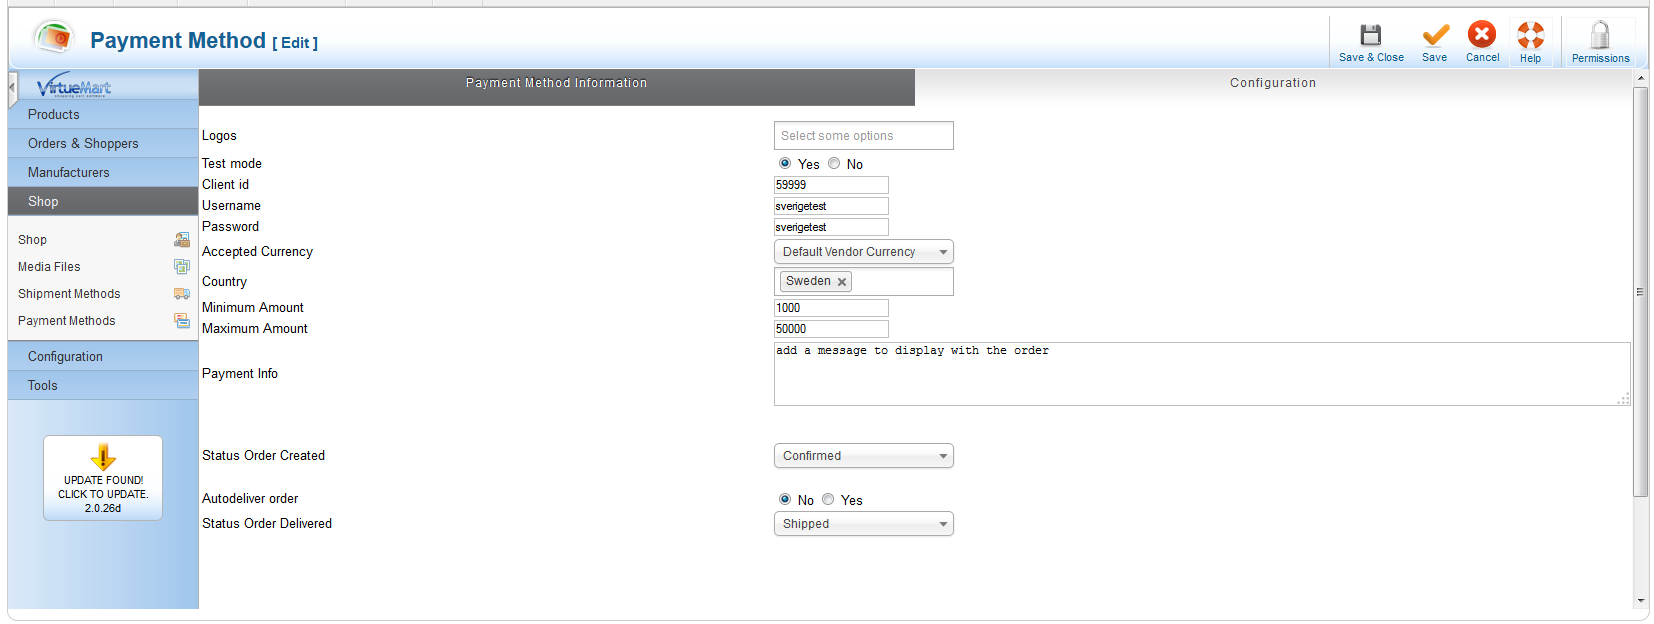
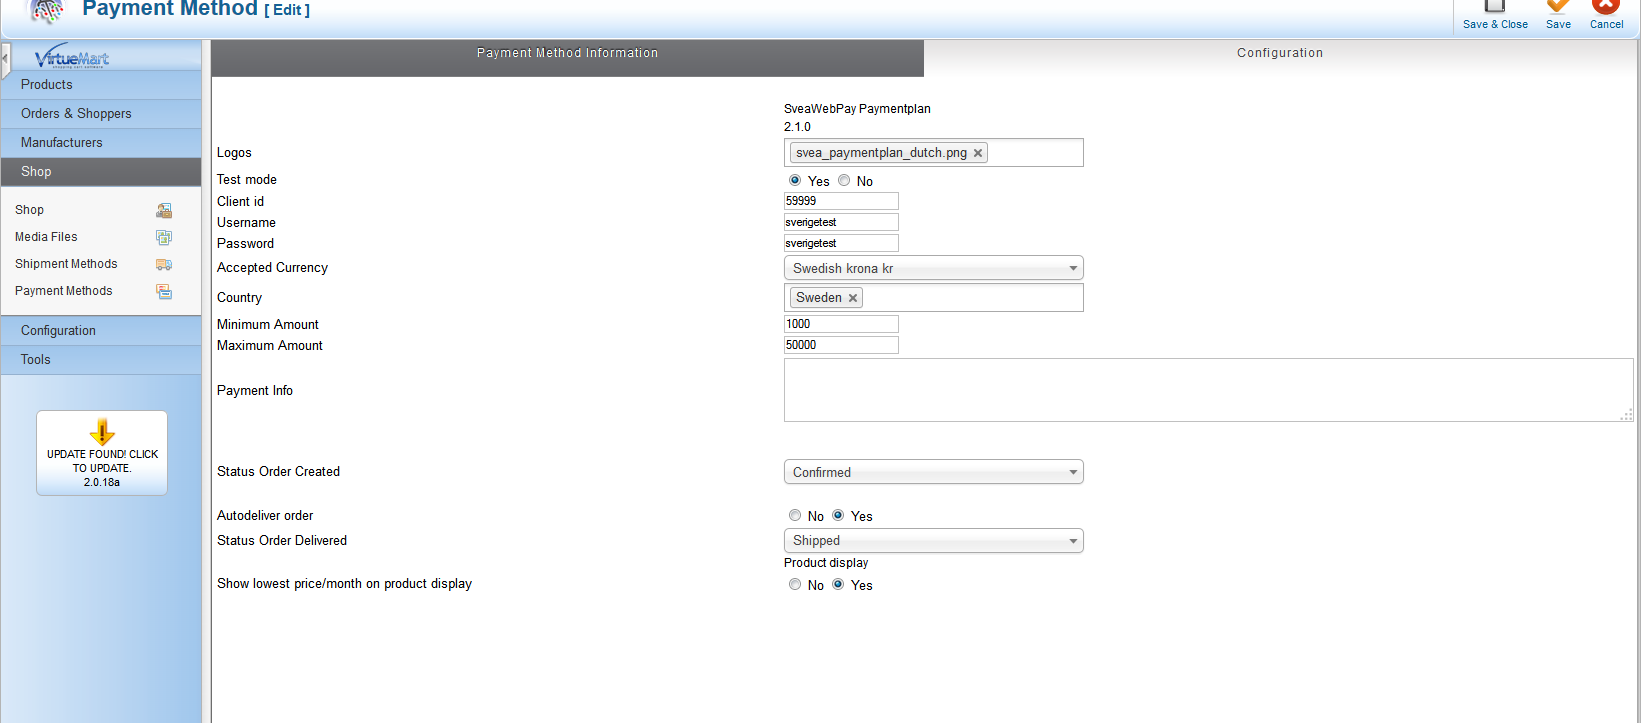
info in readme and version update

Changed region(s): [[0.0, 0.0, 1.0, 1.0], [0.4662, 0.7003, 0.6527, 0.8526], [0.4662, 0.6394, 0.6837, 0.6699]]

diff --git a/README.md b/README.md
@@ -1,6 +1,6 @@
 # Virtuemart 2 - SveaWebPay WebPay payment module installation guide
 
-##Version 2.0.2
+##Version 2.1.0
 This module supports invoice and payment plan payments in Sweden, Finland, Norway, Denmark, Netherlands and Germany, as well as creditcard and direct bank payments. This module is updated for the latest payment systems at SveaWebPay. 
 
 If you experience technical issues with this module, or you have feature suggestions, please submit an issue on the Github issue list.
@@ -116,6 +116,7 @@ To add a new payment method instance, press the "new" icon. You will then be pre
 
 * Autodeliver order -- Set this to "YES" to auto deliver the order. Note that this functionality must first be enabled in the SveaWebPay admin panel. Please contact your SveaWebPay account manager if you have further questions about this.
 * Status Order Delivered -- the virtuemart status given to an order after it has been (auto-)delivered to SveaWebPay.
+* Show lowest price/month on product display -- Set to "YES" the Svea widget for lowest price per month will show on product display. 
 
 ### SveaWebPay Card payment
 Install one or more instances of the SveaWebPay Card payment method. The instances will be presented to all users regardless of registration status. 
